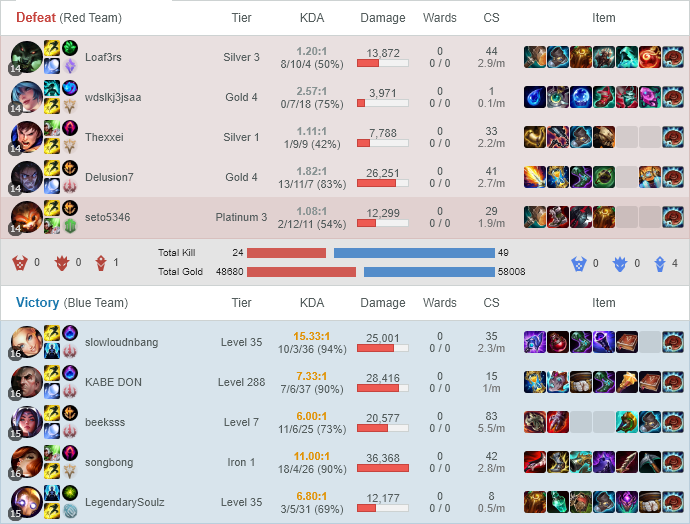
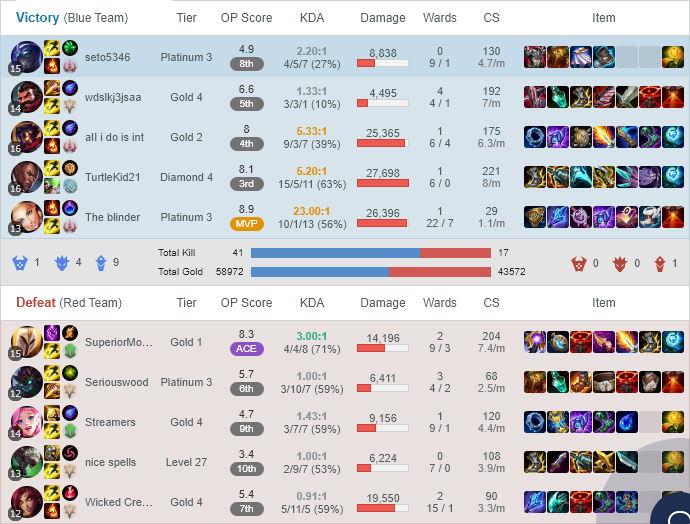
Deployed-Heroku

diff --git a/index.js b/index.js
@@ -31,12 +31,15 @@ bot.on("message", (msg) => {
 
   if (command === "commands" || command === "help") {
     const commandList = [
-      "`-stats [league username]` - Checks OPGG of player's match history and stats! \n",
+      "`-stats [league username]` - Checks OPGG of player's match history and stats! \n" +
+        "`-lastmatch [league username]` - Checks last match of player's match history. \n" +
+        "`-patchnotes [champ name]` - Checks latest patchnotes for changes to a champ. \n",
     ];
     const commandsEmbed = new Discord.MessageEmbed()
       .setColor("#ffffff")
       .setTitle("List of Commands:")
       .setDescription(commandList[0]);
+
     msg.reply(commandsEmbed);
   } else if (command.startsWith("stats ")) {
     //Check if player exists or if a string is even entered (check with puppeteer)
@@ -113,7 +116,8 @@ bot.on("message", (msg) => {
 
       await page
         .evaluate(() => document.querySelector("div.TierRankInfo").innerText) //ill probably change so that it will check this once to confirm if its an actual person
-        .catch((err) => {s
+        .catch((err) => {
+          s;
           msg.reply(player + " does not seem to exist");
           console.log(player + "dne");
           return;
@@ -134,12 +138,96 @@ bot.on("message", (msg) => {
       msg.channel.send({ files: ["match-history.png"] });
       await browser.close();
     }
+  } else if (command.startsWith("patchnotes ")) {
+    //item changes, champ changes,
+    let champ = command.substring(11, command.length);
+    //const champID = "#patch-" + champ;
+
+    website(
+      "https://na.leagueoflegends.com/en-us/news/tags/patch-notes",
+      champ
+    );
+
+    async function website(url, champ) {
+      console.log(champ);
+      const browser = await puppeteer.launch({
+        defaultViewport: { width: 2000, height: 2000 }, //viewport is ignored for some reason, screenshot size is hella scuffed
+      });
+      const page = await browser.newPage(); //new page
+
+      await page.goto(url); //inputs link into browser
+      await page.click(
+        "li.style__Item-sc-3mnuh-3:nth-child(1) > a:nth-child(1) > article:nth-child(1) > div:nth-child(2) > div:nth-child(1) > h2:nth-child(2)"
+      ); //clicks latest patch notes
+      await page.waitForNavigation();
+
+      let champPatchs = await page.$$(
+        "div.patch-change-block.white-stone.accent-before"
+      );
+      let champPic = await page.$$("a.reference-link[href]");
+
+      const hrefs = await page.evaluate(() =>
+        //thank god for stack overflow (this gets the actual hrefs)
+        Array.from(document.querySelectorAll("a.reference-link[href]"), (a) =>
+          a.getAttribute("href")
+        )
+      );
+      //getting the div patch change blocks and champpics (see patch things for details)
+
+      let patchSection = ""; //made this variable so that when the proper champURL is found i use this variable
+      for (let i = 0; i < champPic.length; i++) {
+        let champURL = hrefs[i].substring(62, hrefs[i].length);
+        if (champURL.toUpperCase() == champ.toUpperCase() + "/") {
+          console.log(champ + ", " + champURL);
+          patchSection = champPatchs[i];
+          await page.waitForTimeout(2300); //it needs to wait a bit to load
+
+          await patchSection.screenshot({ path: "patch-section.png" }); //when i screenshot it gives a white background why? needed to load
+          msg.channel.send({ files: ["patch-section.png"] }); //alright this really doesnt work because some patches are very large so i need some way to get around that... (maybe splititng it into 2 pics?)
+          break;
+        }
+      }
+      if (patchSection == "") {
+        msg.channel.send("Champ has not been changed this patch.");
+      }
+      console.log(patchSection);
+
+      await browser.close();
+
+      //champPic[i] = champPic[i].getAttribute("href");
+      //will go through each href and see if the name lines up and then will screenshot the patch-change-block of that champ (of the particular index)
+      //console.log(champPic[i]);
+
+      //#patch-anivia > a:nth-child(1)
+
+      //div.content-border:nth-child(8) > div:nth-child(1) > div:nth-child(1) > a:nth-child(1)
+      //<img src="https://am-a.akamaihd.net/image?f=http://ddragon.leagueoflegends.com/cdn/10.24.1/img/champion/Anivia.png">
+
+      /*
+      let champPatch = await page.$(champID);
+
+      if (champPatch != null) {
+        console.log("found");
+      } else if (champPatch == null) {
+        console.log(champPatch);
+      }
+      //finds that champ is changed this patch
+
+      const champPatchPic = await page.$();
+      */
+
+      //await page.$(champID, () => console.log("good"));
+    }
   } else {
     msg.channel.send(
-      "That doesnt seem to be a command, check `!commands` for more info"
+      "That doesnt seem to be a command, check `-commands` for more info"
     );
   }
 });
+
+//lastest patch notes & latest notes regarding specific champ
+//mayb items specifically?
+
 /*
       await page.waitForSelector('#SummonerLayoutContent > div.tabItem.Content.SummonerLayoutContent.summonerLayout-summary > div.RealContent > div > div.Content > div.GameItemList > div:nth-child(1) > div > div.GameDetail > div > div.MatchDetailContent.tabItems > div.Content.tabItem.MatchDetailContent-overview > div > table.GameDetailTable.Result-WIN > tbody > tr.Row.last > td.Items.Cell');
 

diff --git a/README.md b/README.md
@@ -17,3 +17,7 @@ Command uses Puppeteer to webscrape ranked info from OP.GG's DOMs for the specif
 Command uses Puppeteer to webscrap info by interacting with the page and getting the most recent match of the player profile
 
 ![VISUAL:](img/match.png)
+
+### -patchnotes [champion]
+
+Command uses Puppeteer to webscrape from leagues official pathnotes, it will look at the latest patchnotes and it will send back a pic of the changes
